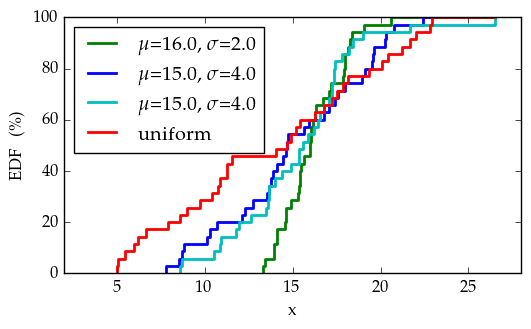
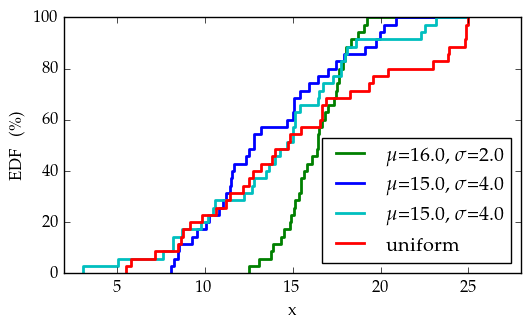
parempi seed

Changed region(s): [[0.1205, 0.0304, 0.9642, 0.8511], [0.7232, 0.7295, 0.8738, 0.7599]]

diff --git a/plotscripts/kstest.py b/plotscripts/kstest.py
@@ -41,7 +41,7 @@ def biggestDifference(data1X, data2X, y):
 	
 	return (bigDiffX, bigDiffLowY, bigDiffHighY)
 
-np.random.seed(71551)
+np.random.seed(100)
 
 N = 35
 normalNumbers = np.random.normal(16.0, 2.0, N)

diff --git a/plotscripts/edf.py b/plotscripts/edf.py
@@ -13,7 +13,7 @@ def CDFifyXData(array):
 	return array
 
 
-np.random.seed(71551)
+np.random.seed(100)
 
 N = 35
 normalNumbers = np.random.normal(16.0, 2.0, N)
